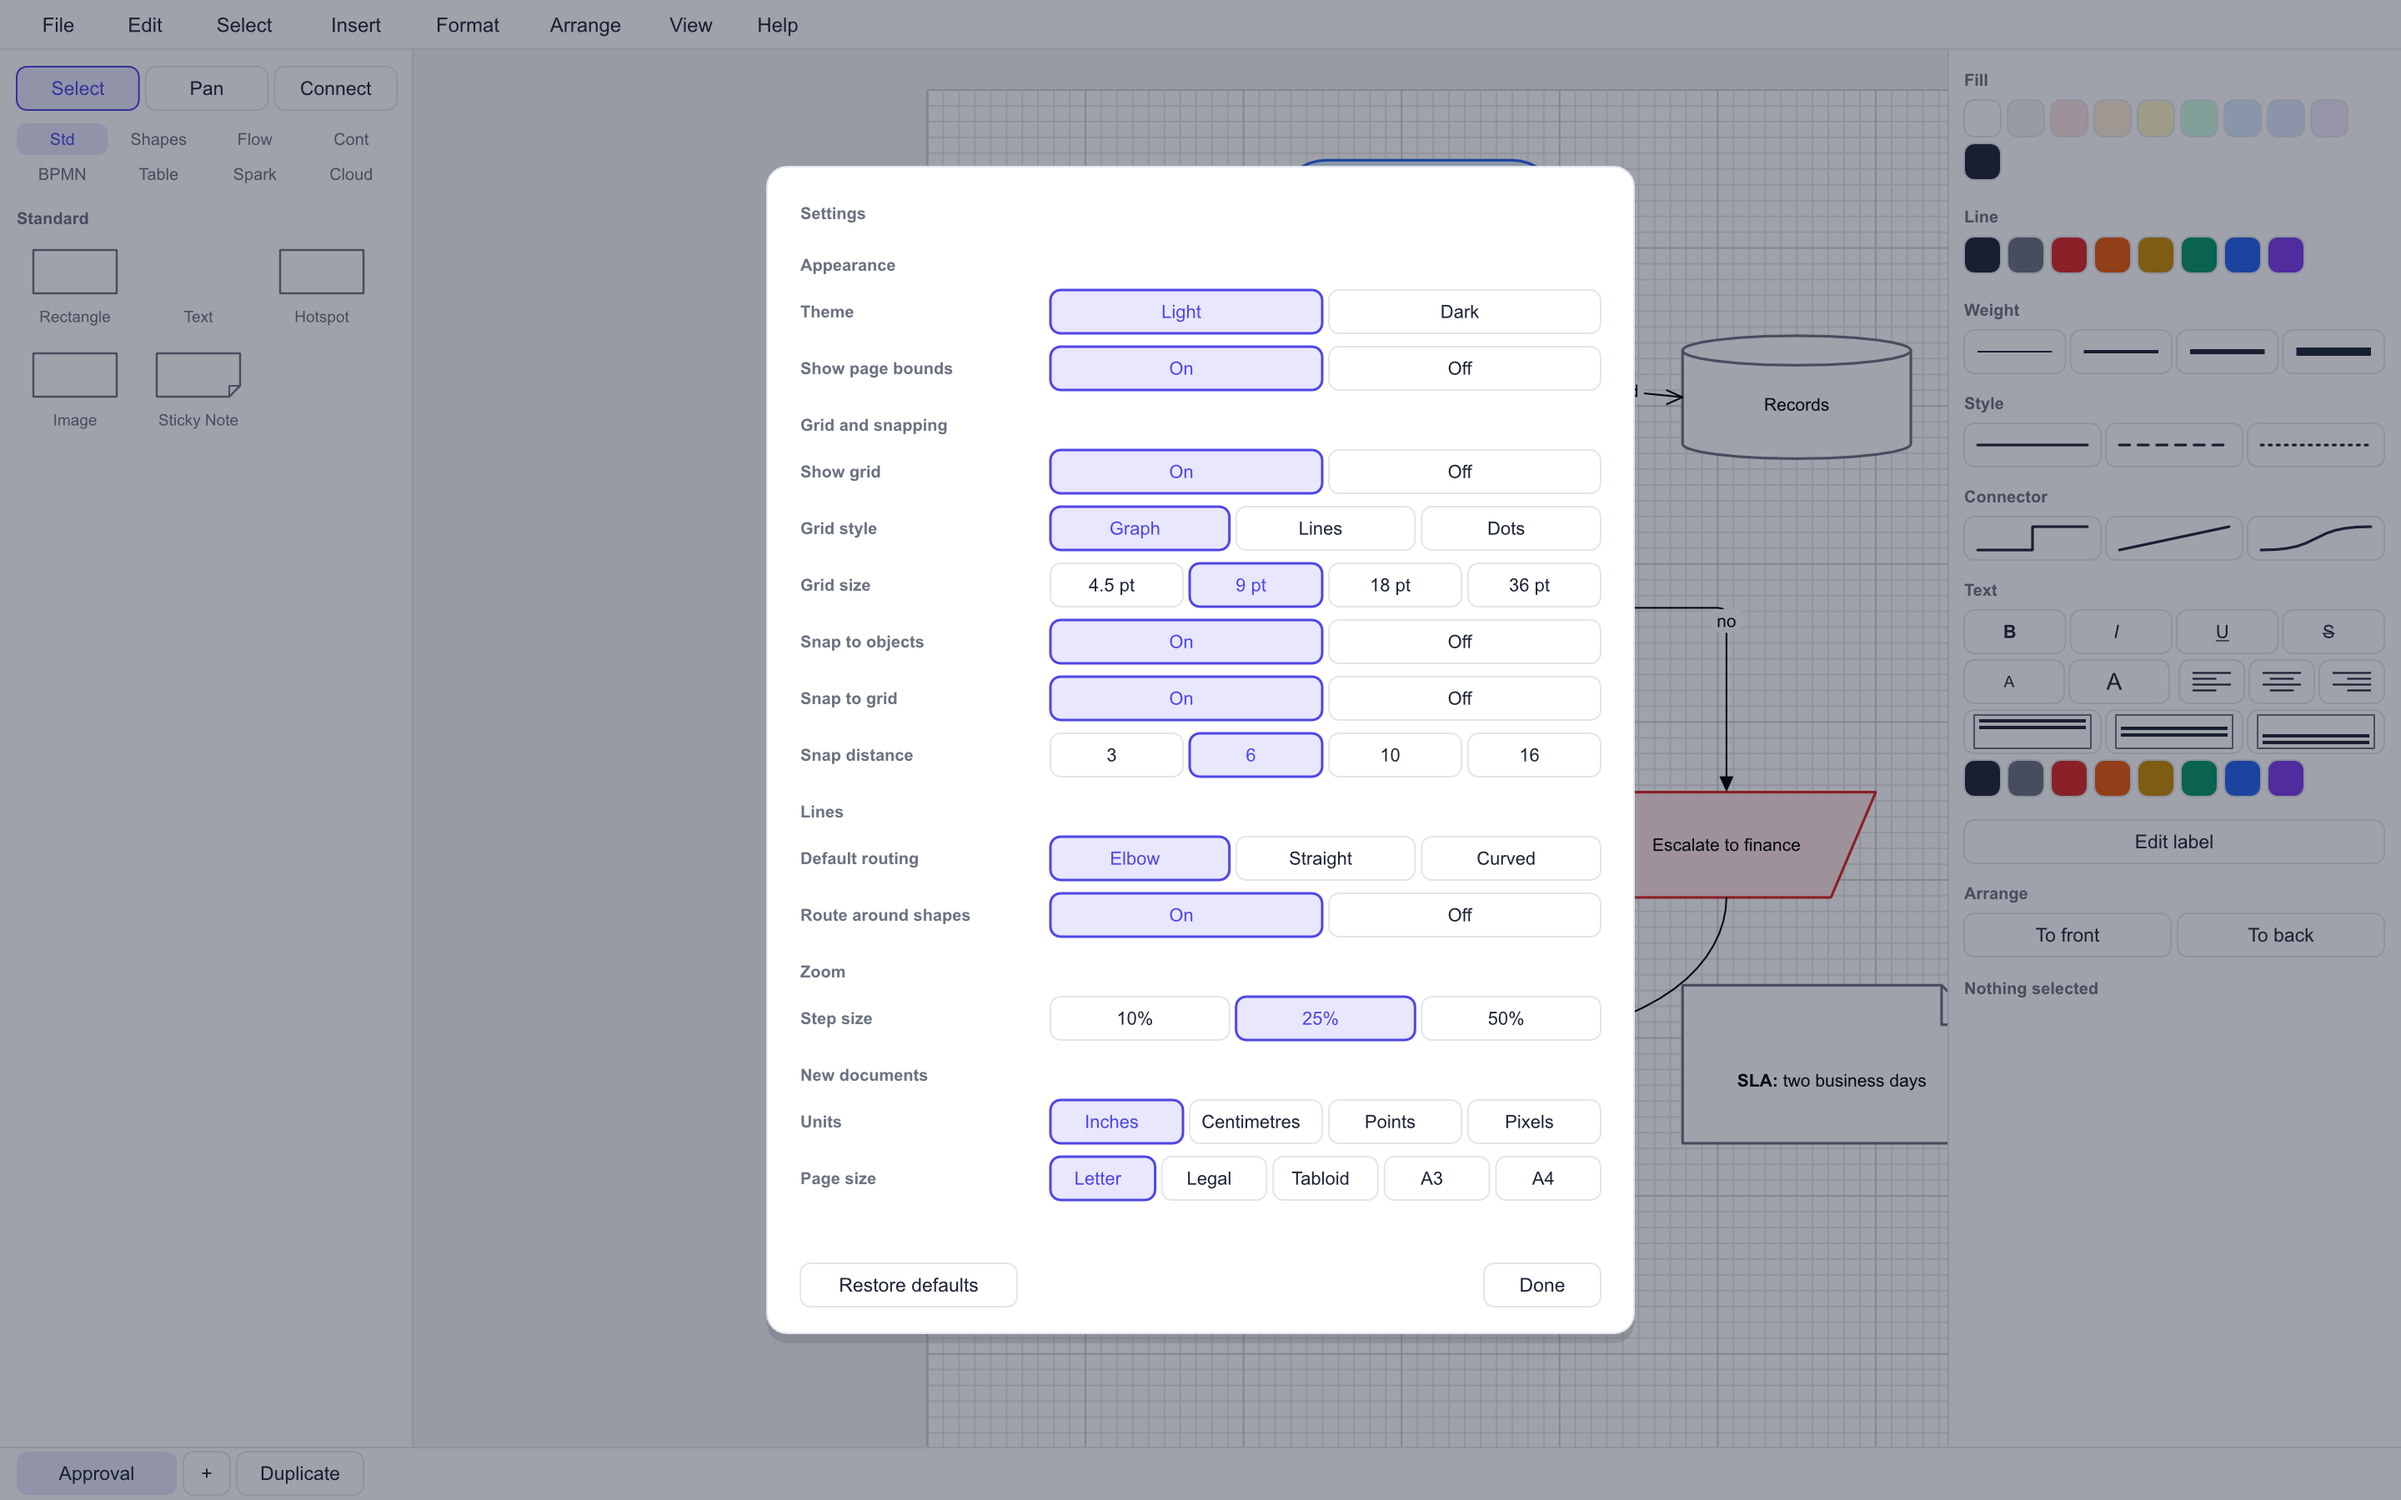
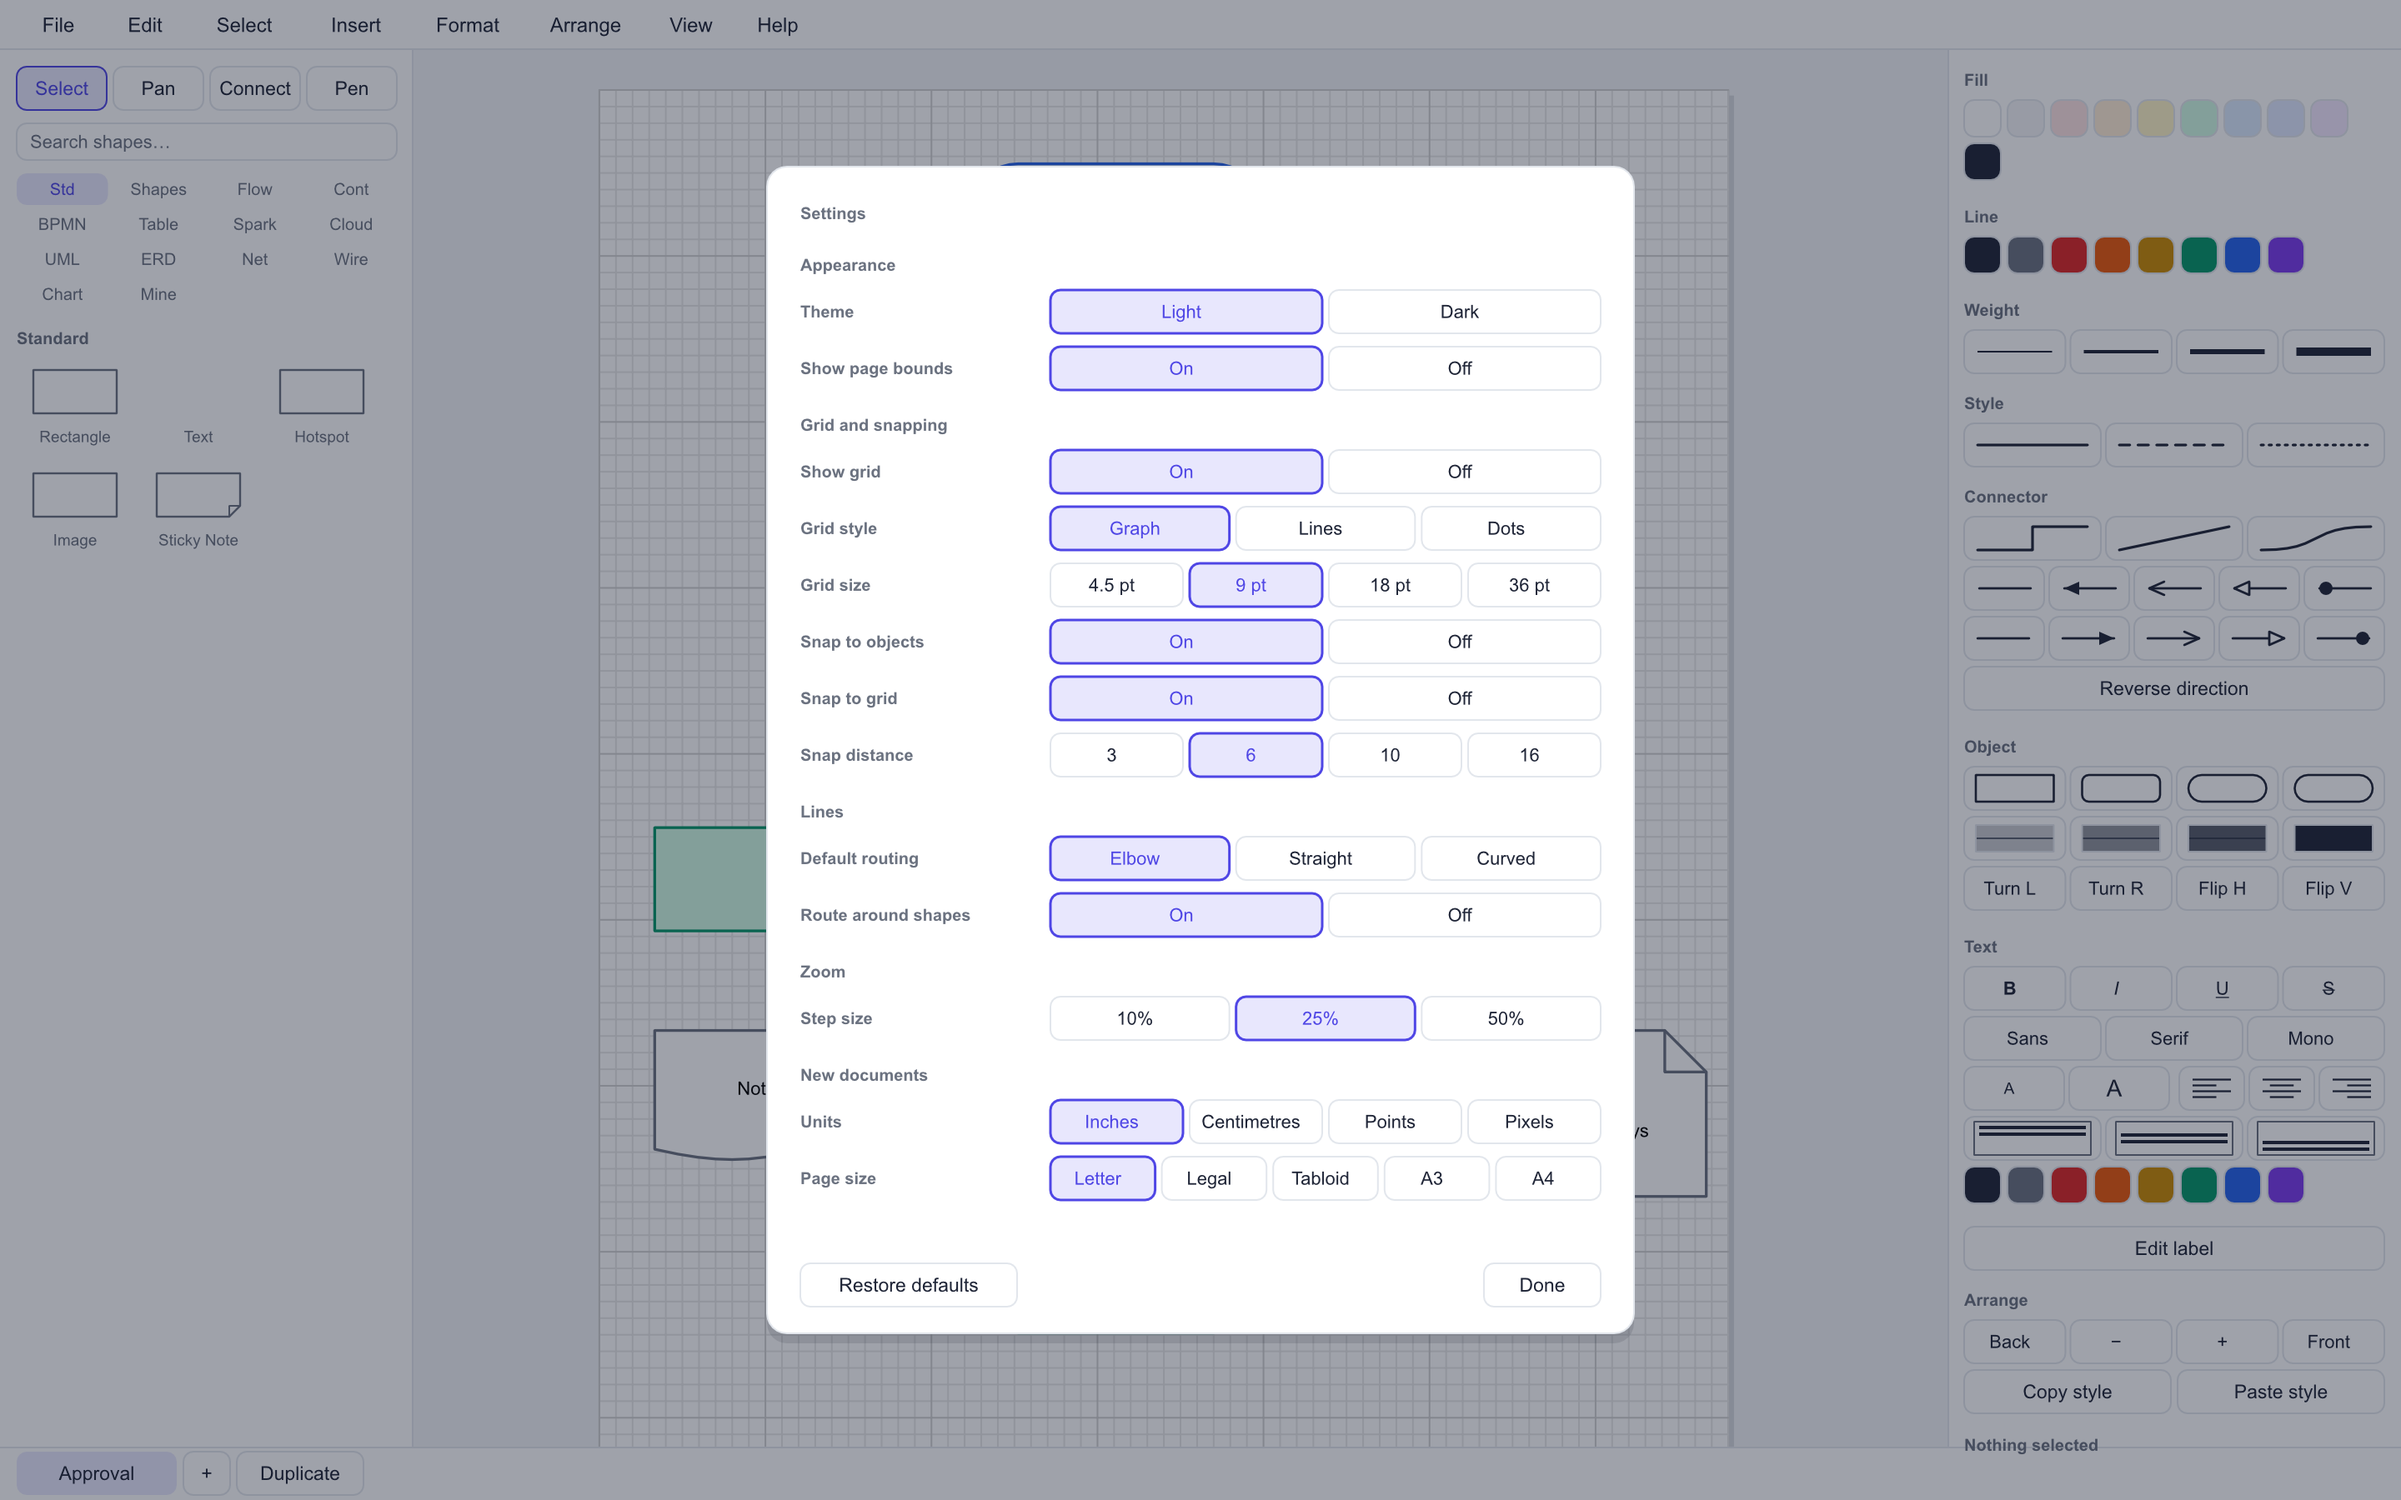
Reshoot the screenshots, and document what shipped without being written down
The pictures were from the ninth and tenth, five feature commits ago.
They showed a palette with eight library tabs and no search box, three
tools where there are now four, and a properties panel without the font
row — an editor that no longer exists. Every one is retaken from the
current build.

Three of them are new. One puts the five extension libraries on a page
with the UML tab open, which is the only way to see at once what those
forty-seven types actually draw as. One shows a selected shape, because
the panel grows a link, data fields and a comment thread when there is
something to put them on, and the old shots were all of an empty
selection. One shows the rulers and the guides pulled off them.

A preview was framing against the wrong viewport. `open_path` fits the
camera when the document loads, but that happens before the chrome has
said how much room the canvas gets, so every preview was framed for
1280x800 and then drawn into whatever was left — about 925 wide. The
existing `editor.png` had the SLA note clipped against the right panel
for exactly this reason, which is visible in the file once you know to
look. Presenting already reframed after the resize because the same
problem was found there and fixed locally; the fix is now unconditional
and the local one is gone.

What the README was missing: the pen, which writes the published
Lucidspark drawing type rather than something only we can read; the
[…]

diff --git a/crates/dc-app/src/export.rs b/crates/dc-app/src/export.rs
@@ -146,10 +146,11 @@ pub fn render_editor_png(
     editor.resize_viewport(canvas.width(), canvas.height());
     // Rebuild so the chrome reflects the camera that was just sized.
     let chrome = Chrome::build_for(window, editor, &metrics, &view, open_menu, None, None);
-    // Presenting frames the page only once the canvas is the whole window.
-    if presenting {
-        editor.zoom_to_fit();
-    }
+    // Opening the document framed it against a default viewport, which is
+    // not the canvas the chrome just left for it — and presenting leaves a
+    // different one again. Reframing here is what keeps a preview from
+    // clipping the drawing it was asked to show.
+    editor.zoom_to_fit();
 
     let mut renderer = Renderer::new();
     renderer.theme = if dark { Theme::dark() } else { Theme::light() };

diff --git a/README.md b/README.md
@@ -17,7 +17,7 @@ open-source desktop option. The web tools are good but rented; the desktop tools
 are expensive or abandoned. The moat was never the drawing code — it was the
 file format, and that format is published.
 
-DiagramCraft is GPU-accelerated vector rendering in pure Rust: an 8.5 MB binary
+DiagramCraft is GPU-accelerated vector rendering in pure Rust: a 9.5 MB binary
 that opens instantly and does not ship a browser engine to draw rectangles.
 
 ## Status
@@ -44,6 +44,8 @@ faithfully. See [Scope](#scope) for what is and is not implemented.
 - Lock a shape in place — it still selects, so it can be unlocked, but it
   refuses to move, resize, or be deleted
 - Rulers, and guides dragged off them that shapes snap to
+- A pen that draws a freehand stroke, kept as the published Lucidspark
+  drawing type rather than as something only this editor can read
 - Presentation mode: pages full-screen with the chrome gone, arrow keys or
   a clicker to step through
 - Revision history: every save keeps a copy, browsable and restorable long
@@ -51,29 +53,51 @@ faithfully. See [Scope](#scope) for what is and is not implemented.
 - Comments that live in the document: leave one on a shape or the page,
   resolve it when it is dealt with, and it travels with the file
 
+![Rulers, guides, and the grid](docs/images/rulers.png)
+
+**Finding and organising**
+- Find and replace across the page's labels, stepping the view to each hit
+- Select every shape, every connector, or everything matching the selection's
+  fill, line colour, or shape type
+- A layers panel: show, hide, lock, add, delete, and move the selection onto
+  another layer
+- Right-click menus that change with what is under the pointer — a shape, the
+  bare canvas, or a page tab, which gets the commands for *that* page rather
+  than the one on screen
+
 **Text**
 - Edit labels in place: double-click a shape or connector, or press Enter
 - Caret, selection, word movement, and multi-line labels
 - Per-selection styling: bold, italic, underline, strikethrough, size, and
   colour apply to the characters you highlighted, not the whole label
+- Three font families — sans, serif, and monospace — chosen so a PDF needs
+  no embedded font
 - Correct handling of graphemes, emoji, and bidirectional text
+
+![Text styling, images, and decorations](docs/images/features.png)
 
 **Shapes**
 - All 68 published shape types across eight libraries: Standard, Shapes,
   Flowchart, Containers, BPMN 2.0, Table, Lucidspark, and the AWS, Azure and
   GCP cloud libraries
-- Five more the format does not publish, drawn from their own notations:
-  UML (class, interface, package, actor, use case, lifeline, activation,
-  component, node, state, fork), entity-relationship (entity, weak entity,
-  relationship, attribute and its variants), network (server, router,
-  switch, firewall, workstation, laptop, mobile, printer, rack, access
-  point), wireframe (browser, phone, button, field, checkbox, radio,
-  dropdown, image, nav bar, slider, toggle), and charts (Venn, 2×2 matrix,
-  sitemap page, timeline, milestone)
+- 47 more in five libraries the format does not publish, drawn from their own
+  notations: UML (class, interface, package, actor, use case, lifeline,
+  activation, component, node, state, initial and final state, fork),
+  entity-relationship (entity, weak entity, relationship, attribute and its
+  variants), network (server, router, switch, firewall, workstation, laptop,
+  mobile, printer, rack, access point), wireframe (browser, phone, button,
+  field, checkbox, radio, dropdown, image, nav bar, slider, toggle), and
+  charts (Venn, 2×2 matrix, sitemap page, timeline, milestone)
+- One search box over every library at once, so a shape can be found without
+  first knowing which tab it lives on
 - Star any shape into My Shapes, and save a page as a reusable template —
   both kept beside the settings, so they outlive the document
+- Six starter templates — flowchart, org chart, cross-functional flowchart,
+  network, ER diagram, SWOT — built only from the published vocabulary
 - Fill, stroke, weight, dash style, corner rounding, opacity, z-order
 - Image fills and image blocks, clipped to the shape outline
+
+![The five extension shape libraries](docs/images/shapes.png)
 
 **Connectors**
 - Straight, elbow, and curved routing
@@ -88,13 +112,12 @@ faithfully. See [Scope](#scope) for what is and is not implemented.
   set per end, with a command to reverse a connector
 - Labeled edges
 
-![Text styling, images, and decorations](docs/images/features.png)
-
 **Files**
 - `.lucid` read and write, lossless for fields this build does not interpret
 - `.vsdx` import and export: Visio pages, shapes, text, styling, and
   connectors, with every outline written as real Visio geometry
 - Bundled images decoded and drawn, clipped to any shape outline
+- Custom data fields and a hyperlink on any shape, both published fields
 - CSV data linking: match shape labels against a column of a bundled data
   source and the row's columns land in the shape's data panel. Link a file
   on disk and Refresh Data goes back for whatever it says now
@@ -104,8 +127,11 @@ faithfully. See [Scope](#scope) for what is and is not implemented.
 - SVG and PDF export, as real vectors with real text: labels stay selectable
   and searchable, and a PDF embeds no font because the families the editor
   offers are the ones every reader already has
+- Page setup per page: Letter, Legal, Tabloid, A3, A4, or an infinite canvas
 - Light and dark themes
 - Graph, line, and dot grids
+
+![The dark theme](docs/images/editor-dark.png)
 
 ## Install
 
@@ -139,10 +165,18 @@ diagramcraft export in.lucid out.svg          # ...or to vector SVG
 diagramcraft export in.lucid out.pdf          # ...or to PDF
 diagramcraft export in.lucid out.vsdx         # ...or to a Visio drawing
 diagramcraft import in.vsdx out.lucid         # convert Visio, headlessly
-diagramcraft preview in.lucid shot.png        # screenshot the editor itself
-diagramcraft preview in.lucid shot.png --hover   # ...with the connect arrows out
+diagramcraft icon out.png 512                 # draw the application icon
 diagramcraft demo out.lucid                   # write the bundled sample
+diagramcraft preview in.lucid shot.png        # screenshot the editor itself
 ```
+
+`export` takes `--transparent` to drop the page background, and `preview` takes
+the flags that put the editor into the state worth looking at — `--dark`,
+`--library NAME`, `--menu NAME`, `--settings`, `--rulers`, `--present`,
+`--editing`, `--bold`, `--line`, `--hover`, `--connect`, `--comment`, and
+`--tidy`. Every screenshot in this README came out of `export` or `preview`,
+which is the point: the pictures cannot drift from the program, because the
+program draws them.
 
 Try the sample:
 
@@ -156,23 +190,26 @@ Commands live in the menu bar — **File, Edit, Select, Insert, Format, Arrange,
 View, Help** — so the whole command surface is in one place with its shortcuts
 beside it. On macOS that is the real system menu bar; elsewhere the window
 draws its own. The panels hold what you reach for continuously while drawing:
-the shape palette on the left, with a tab per library; the properties of the
-selection on the right; and the page tabs along the bottom, which can be
-dragged to reorder.
+the shape palette on the left, with a search box and a tab per library; the
+properties of the selection on the right; and the page tabs along the bottom,
+which can be dragged to reorder.
 
 The properties panel draws its choices rather than naming them, the way
 Lucidchart's does: the weight picker shows the weights, the line-style picker
 shows the dashes, the endpoint pickers show the terminators, and the bold
 button is bold. Every row marks the value the selection already has, and shows
 none when the selection disagrees. The panel is also dynamic — connector rows
-appear for connectors, shape rows for shapes, and everything when nothing is
-selected.
+appear for connectors, shape rows for shapes, a link, data fields, and comments
+for a selected shape, and everything when nothing is selected.
+
+![A selected shape, with its link, data, and comment rows](docs/images/selection.png)
 
 ### Settings
 
-`⌘,` opens the preferences: theme, grid style and size, what snaps to what,
-default connector routing, zoom step, and what a new document starts as. They
-are saved as you change them and read back at launch.
+`⌘,` opens the preferences: theme, page bounds, grid style and size, what snaps
+to what, default connector routing, whether lines route around shapes, zoom
+step, and the units and page size a new document starts as. They are saved as
+you change them and read back at launch.
 
 ![Settings](docs/images/settings.png)
 
@@ -180,7 +217,7 @@ are saved as you change them and read back at launch.
 
 | | |
 |---|---|
-| `V` `H` `C` | select, pan, connector |
+| `V` `H` `C` `F` | select, pan, connector, pen |
 | `R` `P` `D` `T` | rectangle, process, decision, text |
 | Space (hold) | pan with any tool |
 | `⌘Z` / `⇧⌘Z` | undo / redo |
@@ -188,17 +225,20 @@ are saved as you change them and read back at launch.
 | `⇧⌘S` `⇧⌘E` | save as, export PNG |
 | `⌘A` `⌘D` | select all, duplicate |
 | `⌘C` `⌘X` `⌘V` | copy, cut, paste |
+| `⌘F` | find and replace |
 | `⌘G` / `⇧⌘G` | group / ungroup |
 | `⌘]` / `⌘[` | bring forward / send backward |
 | `Alt⌘C` / `Alt⌘V` | copy style / paste style |
 | `⌘B` `⌘I` `⌘U` `⇧⌘X` | bold, italic, underline, strikethrough |
 | `⇧⌘.` / `⇧⌘,` | larger / smaller text |
 | `⇧⌘]` / `⇧⌘[` | bring to front / send to back |
+| `⌘+` / `⌘-` | zoom in / out |
 | `⌘0` `⌘1` | actual size, zoom to fit |
 | `⌘,` | settings |
 | Arrows | nudge (hold shift for 10×) |
 | Shift-drag | lock axis, or keep proportions on a corner |
 | `⌘`-drag | bypass snapping |
+| Right-click | the commands for whatever is under the pointer |
 | Drag a page tab | reorder pages |
 
 **While editing a label**
@@ -281,6 +321,9 @@ Known limits:
   writes that row into `customData`, which the format does publish. There is
   no live binding back to the CSV, because the format defines none; re-running
   the link after the data changes refreshes the values in place.
+- **Find searches the current page.** It matches the plain text of shape and
+  connector labels, so a word split across two differently styled runs is
+  still found, but a second page is a second search.
 - **Text is not shrunk to fit.** A word too long for its shape is broken so
   it wraps rather than running out past the edges, but a label with more
   lines than the shape is tall still overflows — clipped to the shape, and
